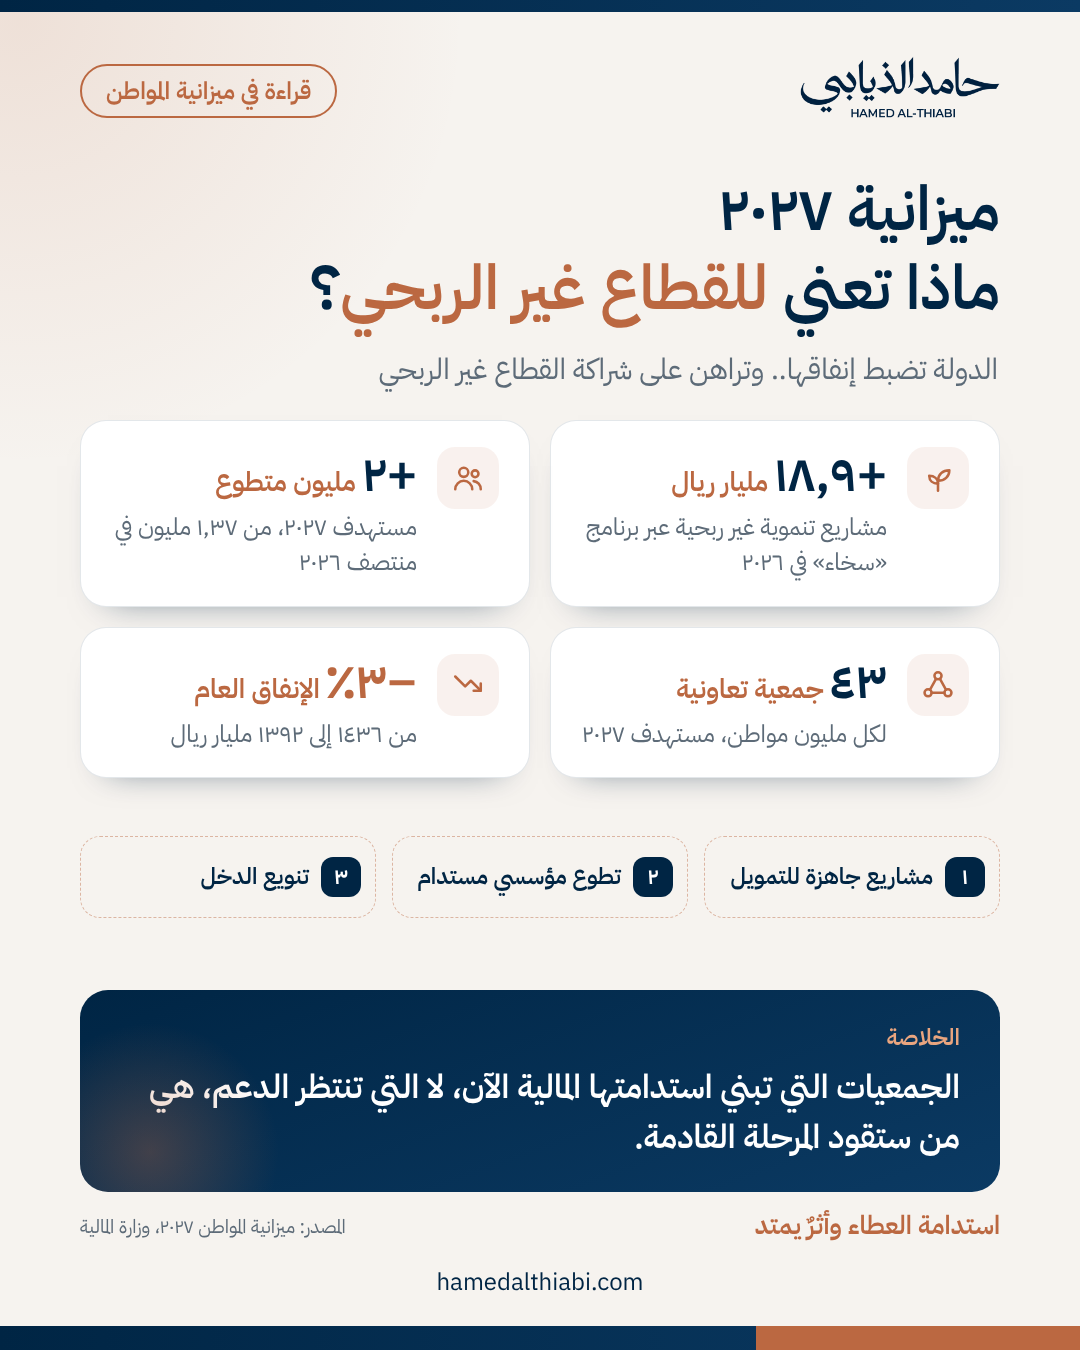
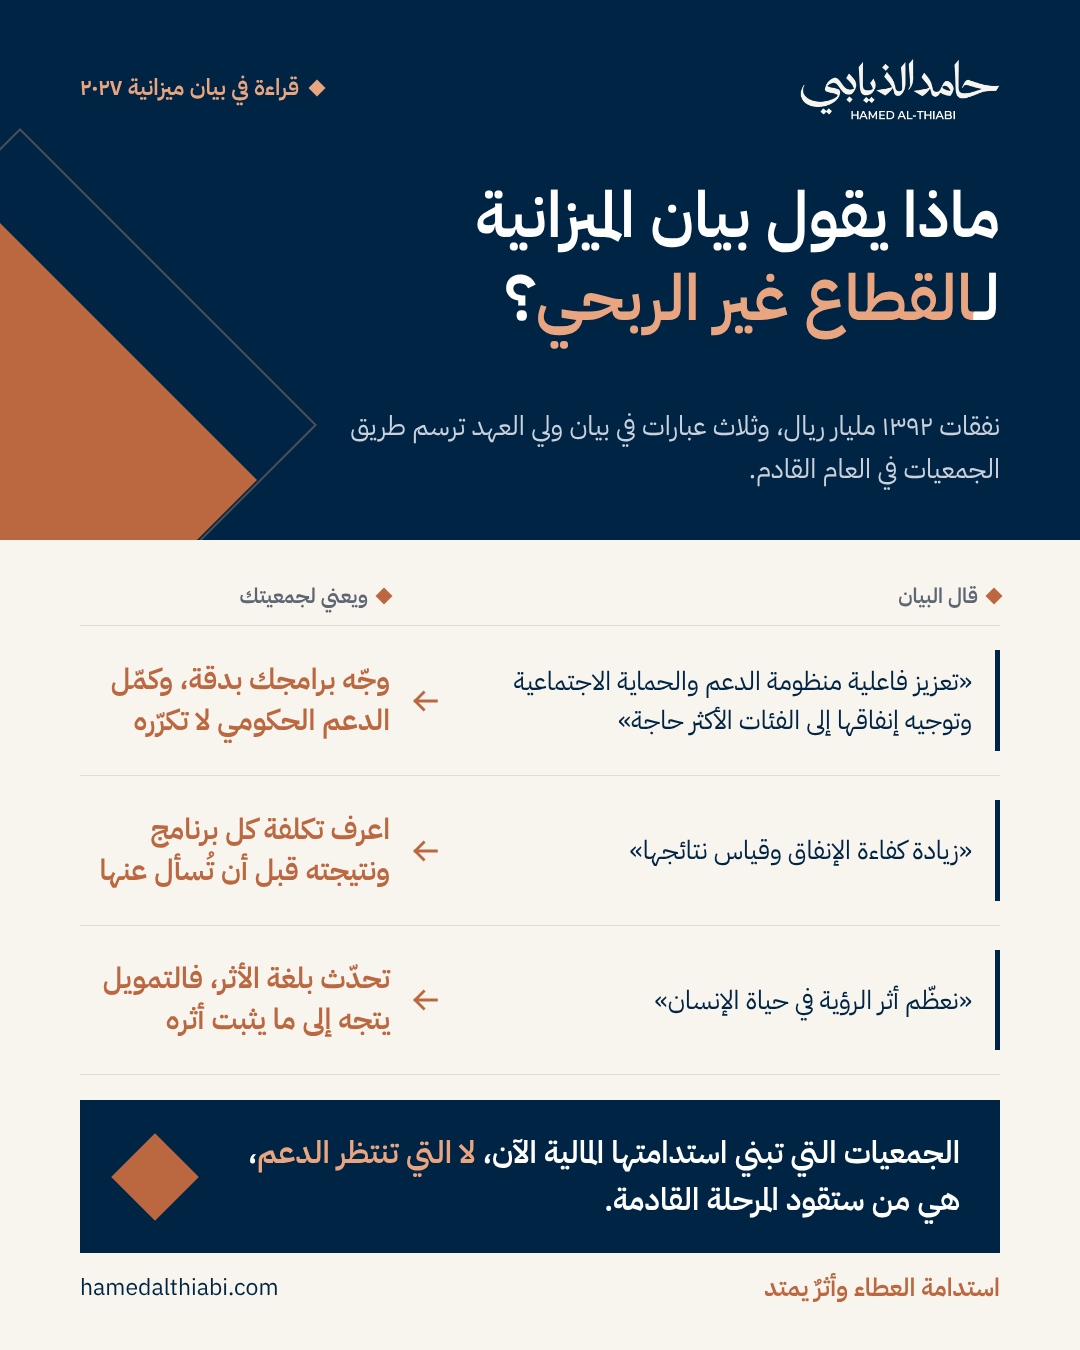
ميزانية 2027: قراءة بيان واس وتصميم جديد بلغة الموقع
Claude-Session: https://claude.ai/code/session_01WaAQ5WJ5sacDNYamjupPhU

diff --git a/agent/designs/2026-11-25-budget-2027.html b/agent/designs/2026-11-25-budget-2027.html
@@ -2,56 +2,43 @@
 @font-face{font-family:Ar;src:url(../brand/plex-600.ttf);font-weight:600}
 @font-face{font-family:Ar;src:url(../brand/plex-400.ttf);font-weight:400}
 @font-face{font-family:La;src:url(../brand/plex-latin-400.ttf)}
-:root{--n:#002544;--n2:#0b3a63;--c:#BB6841;--p:#E9A57F;--ink:#1c2a38;--mut:#5d6b78;--bg:#f6f3ef}
+:root{--n:#002544;--c:#BB6841;--p:#E9A57F;--cr:#F8F5EF;--ln:#E3DCCF;--mu:#5E6673;--pa:#C9D1DC}
 *{margin:0;box-sizing:border-box}html,body{width:1080px;height:1350px;overflow:hidden}
-body{font-family:Ar,La;background:var(--bg);position:relative;color:var(--ink)}
-.b1{position:absolute;width:900px;height:900px;left:-430px;top:-430px;border-radius:50%;background:radial-gradient(circle,#BB684122,#BB684100 70%)}
-.top{position:absolute;top:0;left:0;right:0;height:12px;background:linear-gradient(90deg,var(--n),var(--n2))}
-.logo{position:absolute;top:56px;right:80px;width:200px}
-.tag{position:absolute;top:64px;left:80px;font-size:24px;font-weight:600;color:var(--c);border:2px solid var(--c);border-radius:999px;padding:7px 24px}
-.title{position:absolute;top:170px;right:80px;left:80px;font-weight:600;font-size:62px;color:var(--n);line-height:1.28}
-.title em{font-style:normal;color:var(--c)}
-.sub{position:absolute;top:348px;right:82px;left:80px;font-size:29px;color:var(--mut)}
-.grid{position:absolute;top:420px;right:80px;left:80px;display:grid;grid-template-columns:1fr 1fr;gap:20px}
-.t{background:#fff;border:1.5px solid #0025441c;border-radius:26px;padding:26px 30px;box-shadow:0 18px 34px -28px #002544aa;display:flex;gap:20px;align-items:flex-start}
-.t .ic{flex:none;width:62px;height:62px;border-radius:18px;background:#BB684117;display:flex;align-items:center;justify-content:center}
-.t .ic svg{width:34px;height:34px}
-.t b{display:block;font-size:50px;font-weight:600;color:var(--n);line-height:1.1}
-.t b small{font-size:27px;color:var(--c);margin-right:6px}
-.t span{display:block;font-size:24px;color:var(--mut);margin-top:8px;line-height:1.45}
-.t.dn b{color:var(--c)}
-.recs{position:absolute;top:836px;right:80px;left:80px;display:flex;gap:16px}
-.recs div{flex:1;white-space:nowrap;border-radius:20px;border:1.5px dashed #BB684170;padding:20px 14px;font-size:23px;font-weight:600;color:var(--n);line-height:1.4;display:flex;gap:12px;align-items:center}
-.recs i{flex:none;width:40px;height:40px;border-radius:12px;background:var(--n);color:#fff;font-style:normal;font-size:22px;display:flex;align-items:center;justify-content:center}
-.sum{position:absolute;top:990px;right:80px;left:80px;background:linear-gradient(160deg,var(--n),var(--n2));border-radius:28px;padding:30px 40px;color:#fff;overflow:hidden}
-.sum:after{content:"";position:absolute;left:-60px;bottom:-90px;width:260px;height:260px;border-radius:50%;background:radial-gradient(circle,#BB684155,#BB684100 70%)}
-.sum h4{font-size:23px;color:var(--p);font-weight:600;margin-bottom:8px}
-.sum p{font-size:33px;font-weight:600;line-height:1.5;position:relative}
-.src{position:absolute;top:1212px;left:80px;font-size:19px;color:var(--mut)}
-.slog{position:absolute;top:1206px;right:80px;font-size:26px;font-weight:600;color:var(--c)}
-.url{position:absolute;bottom:50px;width:100%;text-align:center;font-family:La,Ar;font-size:24px;color:var(--n);direction:ltr}
-.bot{position:absolute;bottom:0;left:0;right:0;height:24px;background:linear-gradient(90deg,var(--n),var(--n2))}
-.bot i{position:absolute;right:0;top:0;bottom:0;width:30%;background:var(--c)}
+body{font-family:Ar,La;background:var(--cr);position:relative;color:var(--n)}
+.hero{position:absolute;top:0;left:0;right:0;height:540px;background:var(--n);overflow:hidden}
+.dia{position:absolute;width:420px;height:420px;background:var(--c);transform:rotate(45deg);left:-250px;top:270px}
+.dia2{position:absolute;width:420px;height:420px;border:2px solid #E9A57F55;transform:rotate(45deg);left:-190px;top:215px}
+.logo{position:absolute;top:58px;right:80px;width:200px}
+.eye{position:absolute;top:70px;left:80px;font-size:23px;font-weight:600;color:var(--p);display:flex;align-items:center;gap:12px}
+.eye i,.k i{display:inline-block;width:12px;height:12px;background:var(--c);transform:rotate(45deg)}
+.eye i{background:var(--p)}
+.title{position:absolute;top:175px;right:80px;width:760px;font-weight:600;font-size:64px;color:#fff;line-height:1.3}
+.title em{font-style:normal;color:var(--p)}
+.lead{position:absolute;top:405px;right:80px;width:660px;font-size:27px;color:var(--pa);line-height:1.6}
+.cols{position:absolute;top:580px;right:80px;left:80px;display:flex;font-size:21px;font-weight:600;color:var(--mu);letter-spacing:0}
+.cols span:first-child{width:540px}
+.k{display:inline-flex;align-items:center;gap:10px}
+.row{position:absolute;right:80px;left:80px;height:150px;display:flex;align-items:stretch;border-top:1.5px solid var(--ln)}
+.q{width:540px;padding:0 28px 0 24px;display:flex;align-items:center;font-size:26px;line-height:1.5;color:var(--n);position:relative}
+.q:before{content:"";position:absolute;right:0;top:24px;bottom:24px;width:5px;background:var(--n)}
+.arr{width:70px;display:flex;align-items:center;justify-content:center}
+.m{flex:1;display:flex;align-items:center;font-size:29px;font-weight:600;color:var(--c);line-height:1.4}
+.sum{position:absolute;top:1100px;right:80px;left:80px;background:var(--n);padding:30px 40px 30px 150px;color:#fff;font-size:31px;font-weight:600;line-height:1.5}
+.sum b{color:var(--p);font-weight:600}
+.sum .d{position:absolute;left:44px;top:50%;width:62px;height:62px;margin-top:-31px;background:var(--c);transform:rotate(45deg)}
+.foot{position:absolute;bottom:44px;right:80px;left:80px;display:flex;justify-content:space-between;align-items:center}
+.slog{font-size:25px;font-weight:600;color:var(--c)}
+.url{font-family:La,Ar;font-size:23px;color:var(--n);direction:ltr}
 </style></head><body>
-<div class="b1"></div><div class="top"></div>
-<img class="logo" src="../../hamed-site/logo_navy.png">
-<div class="tag">قراءة في ميزانية المواطن</div>
-<div class="title">ميزانية ٢٠٢٧<br>ماذا تعني <em>للقطاع غير الربحي</em>؟</div>
-<div class="sub">الدولة تضبط إنفاقها.. وتراهن على شراكة القطاع غير الربحي</div>
-<div class="grid">
- <div class="t"><div class="ic"><svg viewBox="0 0 24 24" fill="none" stroke="#BB6841" stroke-width="1.8" stroke-linecap="round" stroke-linejoin="round"><path d="M12 21v-7"/><path d="M12 14c0-4.5 3.3-7.5 8-7.5 0 4.5-3.3 7.5-8 7.5zM12 16c0-3.4-2.6-5.6-6.2-5.6 0 3.4 2.6 5.6 6.2 5.6z"/></svg></div><div><b>+١٨٫٩<small>مليار ريال</small></b><span>مشاريع تنموية غير ربحية عبر برنامج «سخاء» في ٢٠٢٦</span></div></div>
- <div class="t"><div class="ic"><svg viewBox="0 0 24 24" fill="none" stroke="#BB6841" stroke-width="1.8" stroke-linecap="round" stroke-linejoin="round"><circle cx="9" cy="8" r="3.2"/><path d="M3 20c0-3.3 2.7-6 6-6s6 2.7 6 6"/><circle cx="17" cy="9" r="2.4"/><path d="M16 14.2c2.8.3 5 2.6 5 5.8"/></svg></div><div><b>+٢<small>مليون متطوع</small></b><span>مستهدف ٢٠٢٧، من ١٫٣٧ مليون في منتصف ٢٠٢٦</span></div></div>
- <div class="t"><div class="ic"><svg viewBox="0 0 24 24" fill="none" stroke="#BB6841" stroke-width="1.8" stroke-linecap="round" stroke-linejoin="round"><circle cx="12" cy="5.5" r="2.5"/><circle cx="5" cy="17.5" r="2.5"/><circle cx="19" cy="17.5" r="2.5"/><path d="M10.6 7.7 6.4 15.3M13.4 7.7l4.2 7.6M7.5 17.5h9"/></svg></div><div><b>٤٣<small>جمعية تعاونية</small></b><span>لكل مليون مواطن، مستهدف ٢٠٢٧</span></div></div>
- <div class="t dn"><div class="ic"><svg viewBox="0 0 24 24" fill="none" stroke="#BB6841" stroke-width="1.8" stroke-linecap="round" stroke-linejoin="round"><path d="M3 6l7 7 4-4 7 7"/><path d="M21 11v5h-5"/></svg></div><div><b>−٣٪<small>الإنفاق العام</small></b><span>من ١٤٣٦ إلى ١٣٩٢ مليار ريال</span></div></div>
-</div>
-<div class="recs">
- <div><i>١</i>مشاريع جاهزة للتمويل</div>
- <div><i>٢</i>تطوع مؤسسي مستدام</div>
- <div><i>٣</i>تنويع الدخل</div>
-</div>
-<div class="sum"><h4>الخلاصة</h4><p>الجمعيات التي تبني استدامتها المالية الآن، لا التي تنتظر الدعم، هي من ستقود المرحلة القادمة.</p></div>
-<div class="slog">استدامة العطاء وأثرٌ يمتد</div>
-<div class="src">المصدر: ميزانية المواطن ٢٠٢٧، وزارة المالية</div>
-<div class="url">hamedalthiabi.com</div>
-<div class="bot"><i></i></div>
+<div class="hero"><div class="dia2"></div><div class="dia"></div></div>
+<img class="logo" src="../../hamed-site/logo_white.png">
+<div class="eye"><i></i>قراءة في بيان ميزانية ٢٠٢٧</div>
+<div class="title">ماذا يقول بيان الميزانية<br>لـ<em>القطاع غير الربحي</em>؟</div>
+<div class="lead">نفقات ١٣٩٢ مليار ريال، وثلاث عبارات في بيان ولي العهد ترسم طريق الجمعيات في العام القادم.</div>
+<div class="cols"><span class="k"><i></i>قال البيان</span><span class="k" style="margin-right:70px"><i></i>ويعني لجمعيتك</span></div>
+<div class="row" style="top:625px"><div class="q">«تعزيز فاعلية منظومة الدعم والحماية الاجتماعية وتوجيه إنفاقها إلى الفئات الأكثر حاجة»</div><div class="arr"><svg width="34" height="34" viewBox="0 0 24 24" fill="none" stroke="#BB6841" stroke-width="2" stroke-linecap="square"><path d="M20 12H5M11 6l-6 6 6 6"/></svg></div><div class="m">وجّه برامجك بدقة، وكمّل الدعم الحكومي لا تكرّره</div></div>
+<div class="row" style="top:775px"><div class="q">«زيادة كفاءة الإنفاق وقياس نتائجها»</div><div class="arr"><svg width="34" height="34" viewBox="0 0 24 24" fill="none" stroke="#BB6841" stroke-width="2" stroke-linecap="square"><path d="M20 12H5M11 6l-6 6 6 6"/></svg></div><div class="m">اعرف تكلفة كل برنامج ونتيجته قبل أن تُسأل عنها</div></div>
+<div class="row" style="top:925px;border-bottom:1.5px solid var(--ln)"><div class="q">«نعظّم أثر الرؤية في حياة الإنسان»</div><div class="arr"><svg width="34" height="34" viewBox="0 0 24 24" fill="none" stroke="#BB6841" stroke-width="2" stroke-linecap="square"><path d="M20 12H5M11 6l-6 6 6 6"/></svg></div><div class="m">تحدّث بلغة الأثر، فالتمويل يتجه إلى ما يثبت أثره</div></div>
+<div class="sum">الجمعيات التي تبني استدامتها المالية الآن، <b>لا التي تنتظر الدعم</b>، هي من ستقود المرحلة القادمة.<span class="d"></span></div>
+<div class="foot"><span class="slog">استدامة العطاء وأثرٌ يمتد</span><span class="url">hamedalthiabi.com</span></div>
 </body></html>
